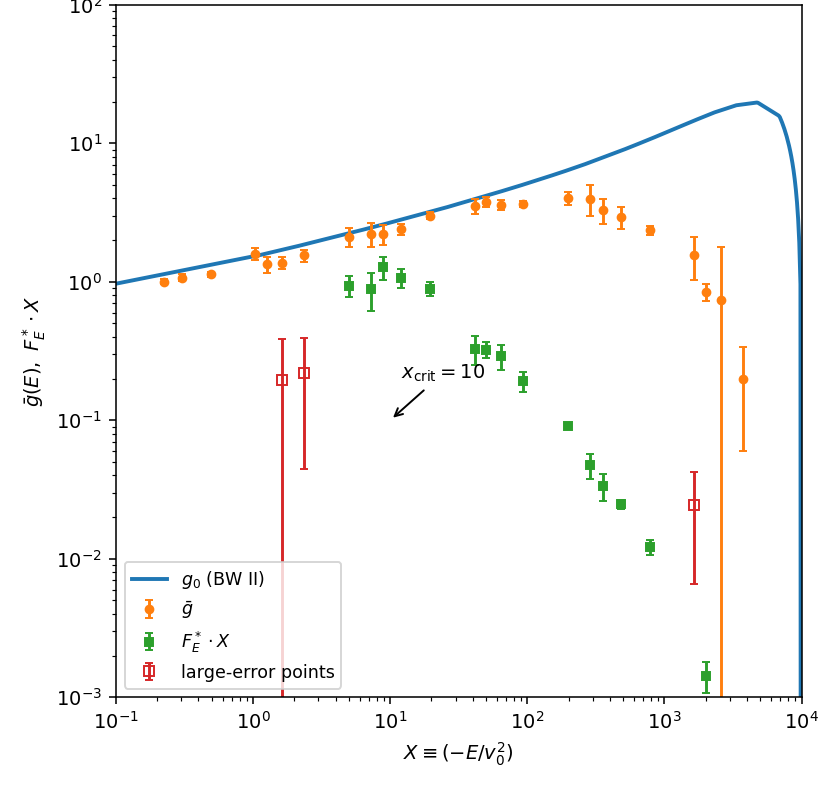
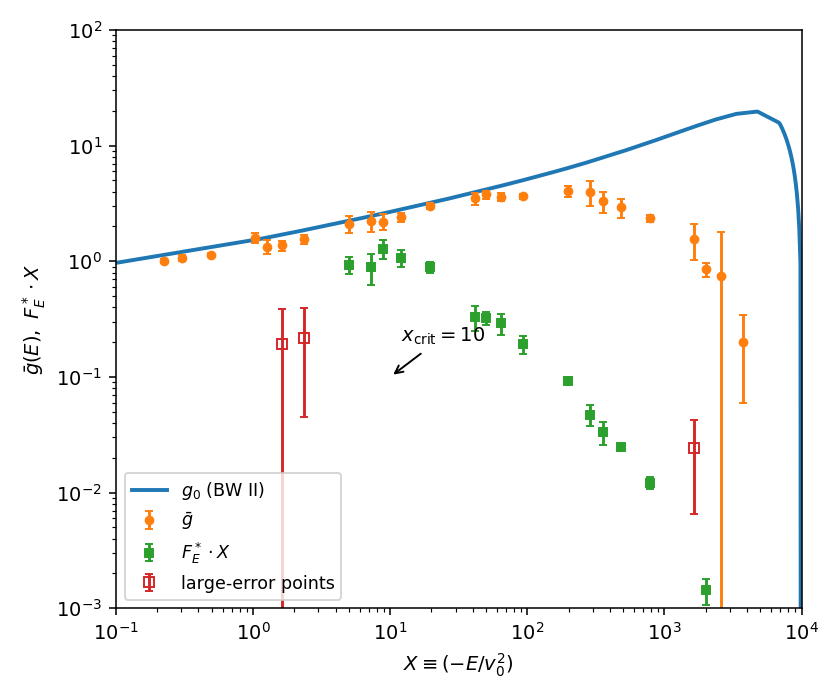
Fig.3 from table: stylistic improvements

diff --git a/Shapiro1978/apple-to-apple/fig3/table_reading.py b/Shapiro1978/apple-to-apple/fig3/table_reading.py
@@ -125,7 +125,7 @@ plt.annotate(r"$x_{\rm crit}=10$", xy=(10, 1e-1), xytext=(12, 2e-1),
 
 plt.xlabel(r"$X \equiv (-E/v_0^2)$")
 plt.ylabel(r"$\bar g(E),\  F_E^*\cdot X$")
-plt.title("Reproduction of Fig. 3 (canonical case: $x_{\\rm crit}=10,\\ x_D=10^4$)")
+# plt.title("Reproduction of Fig. 3 (canonical case: $x_{\\rm crit}=10,\\ x_D=10^4$)")
 plt.legend(loc="lower left", fontsize=9)
 plt.tight_layout()
 plt.savefig("figure3_repro.png")
